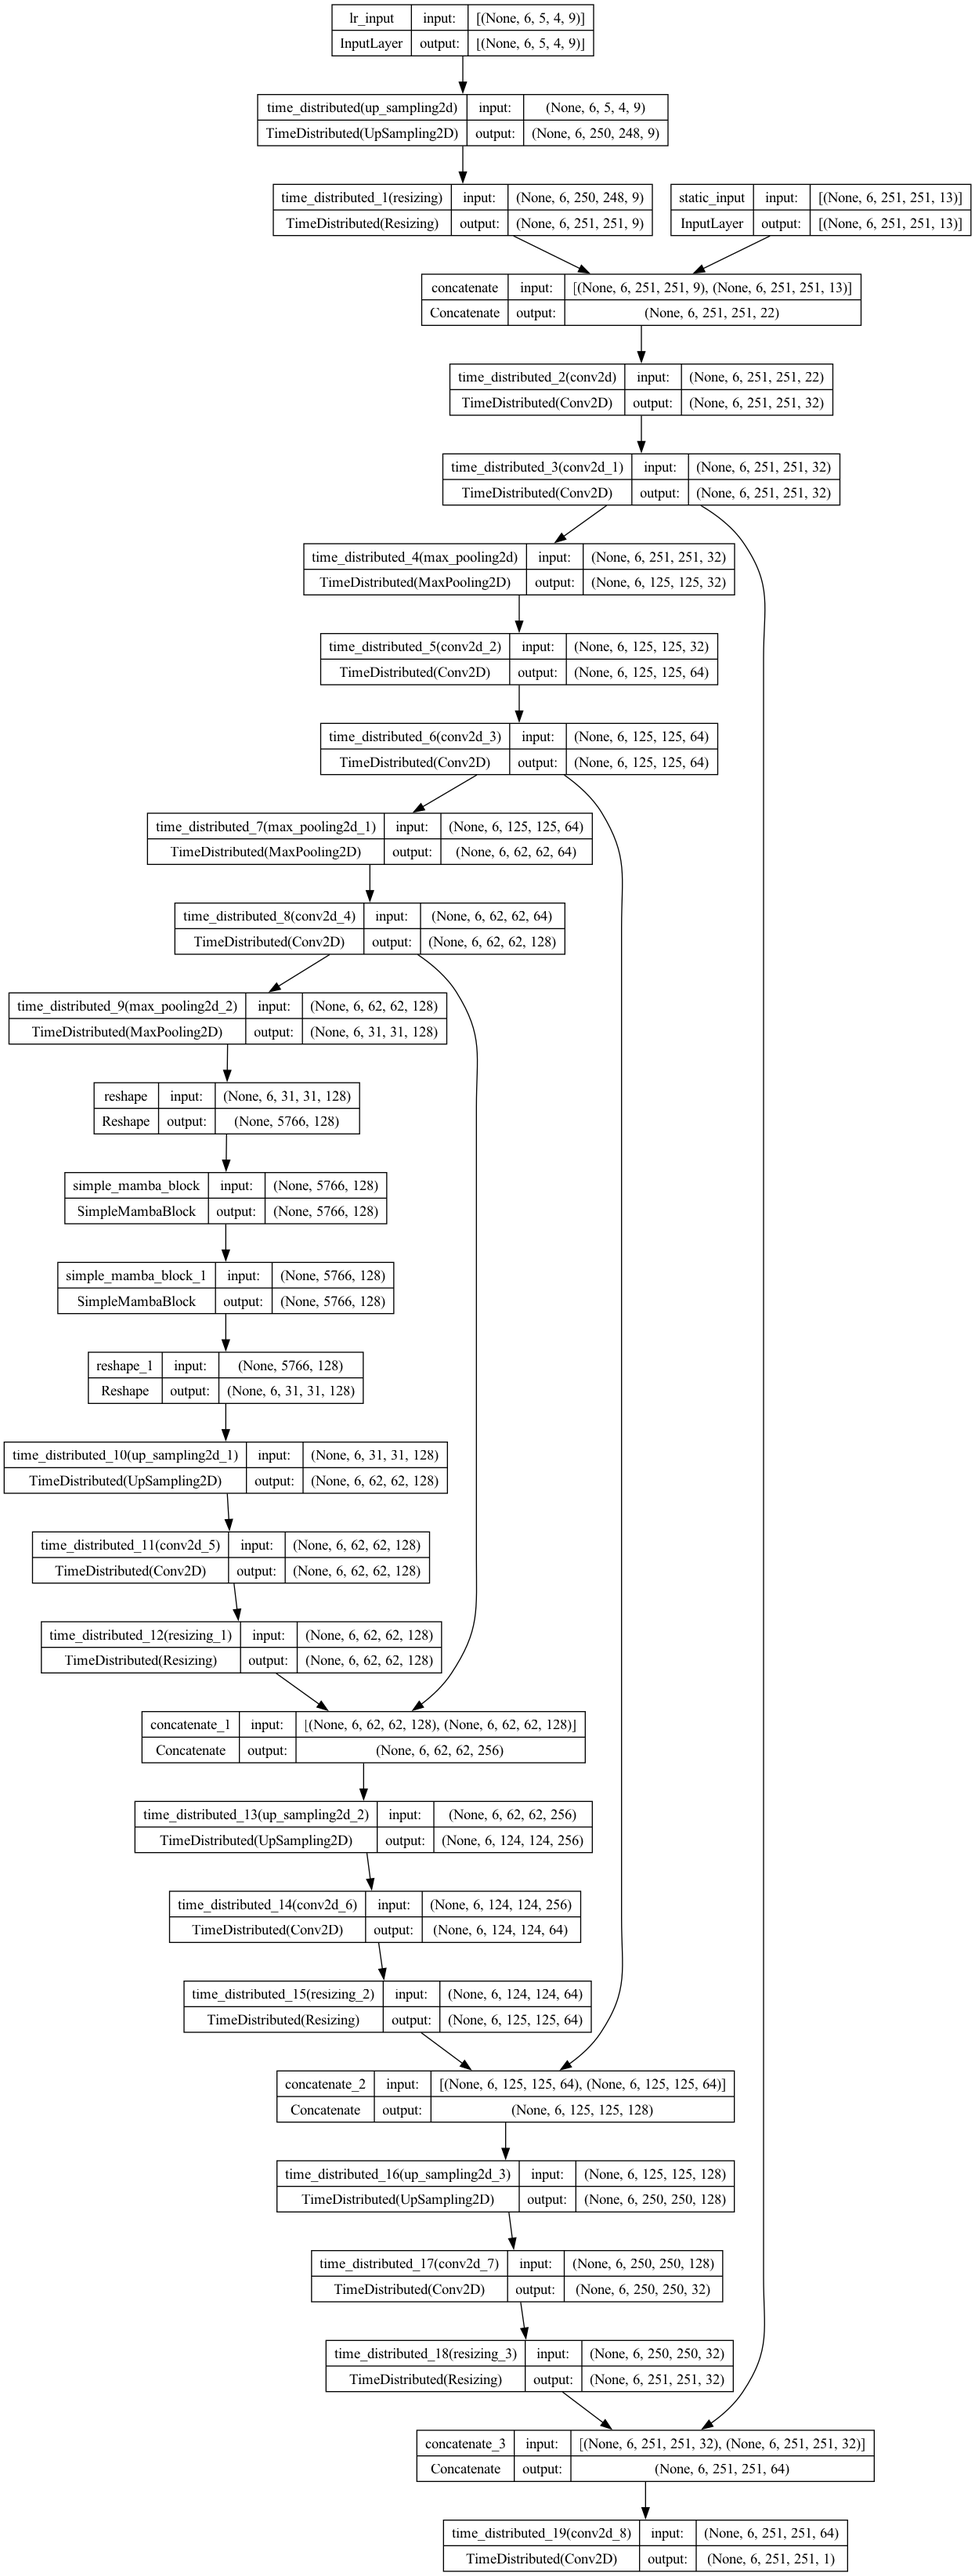
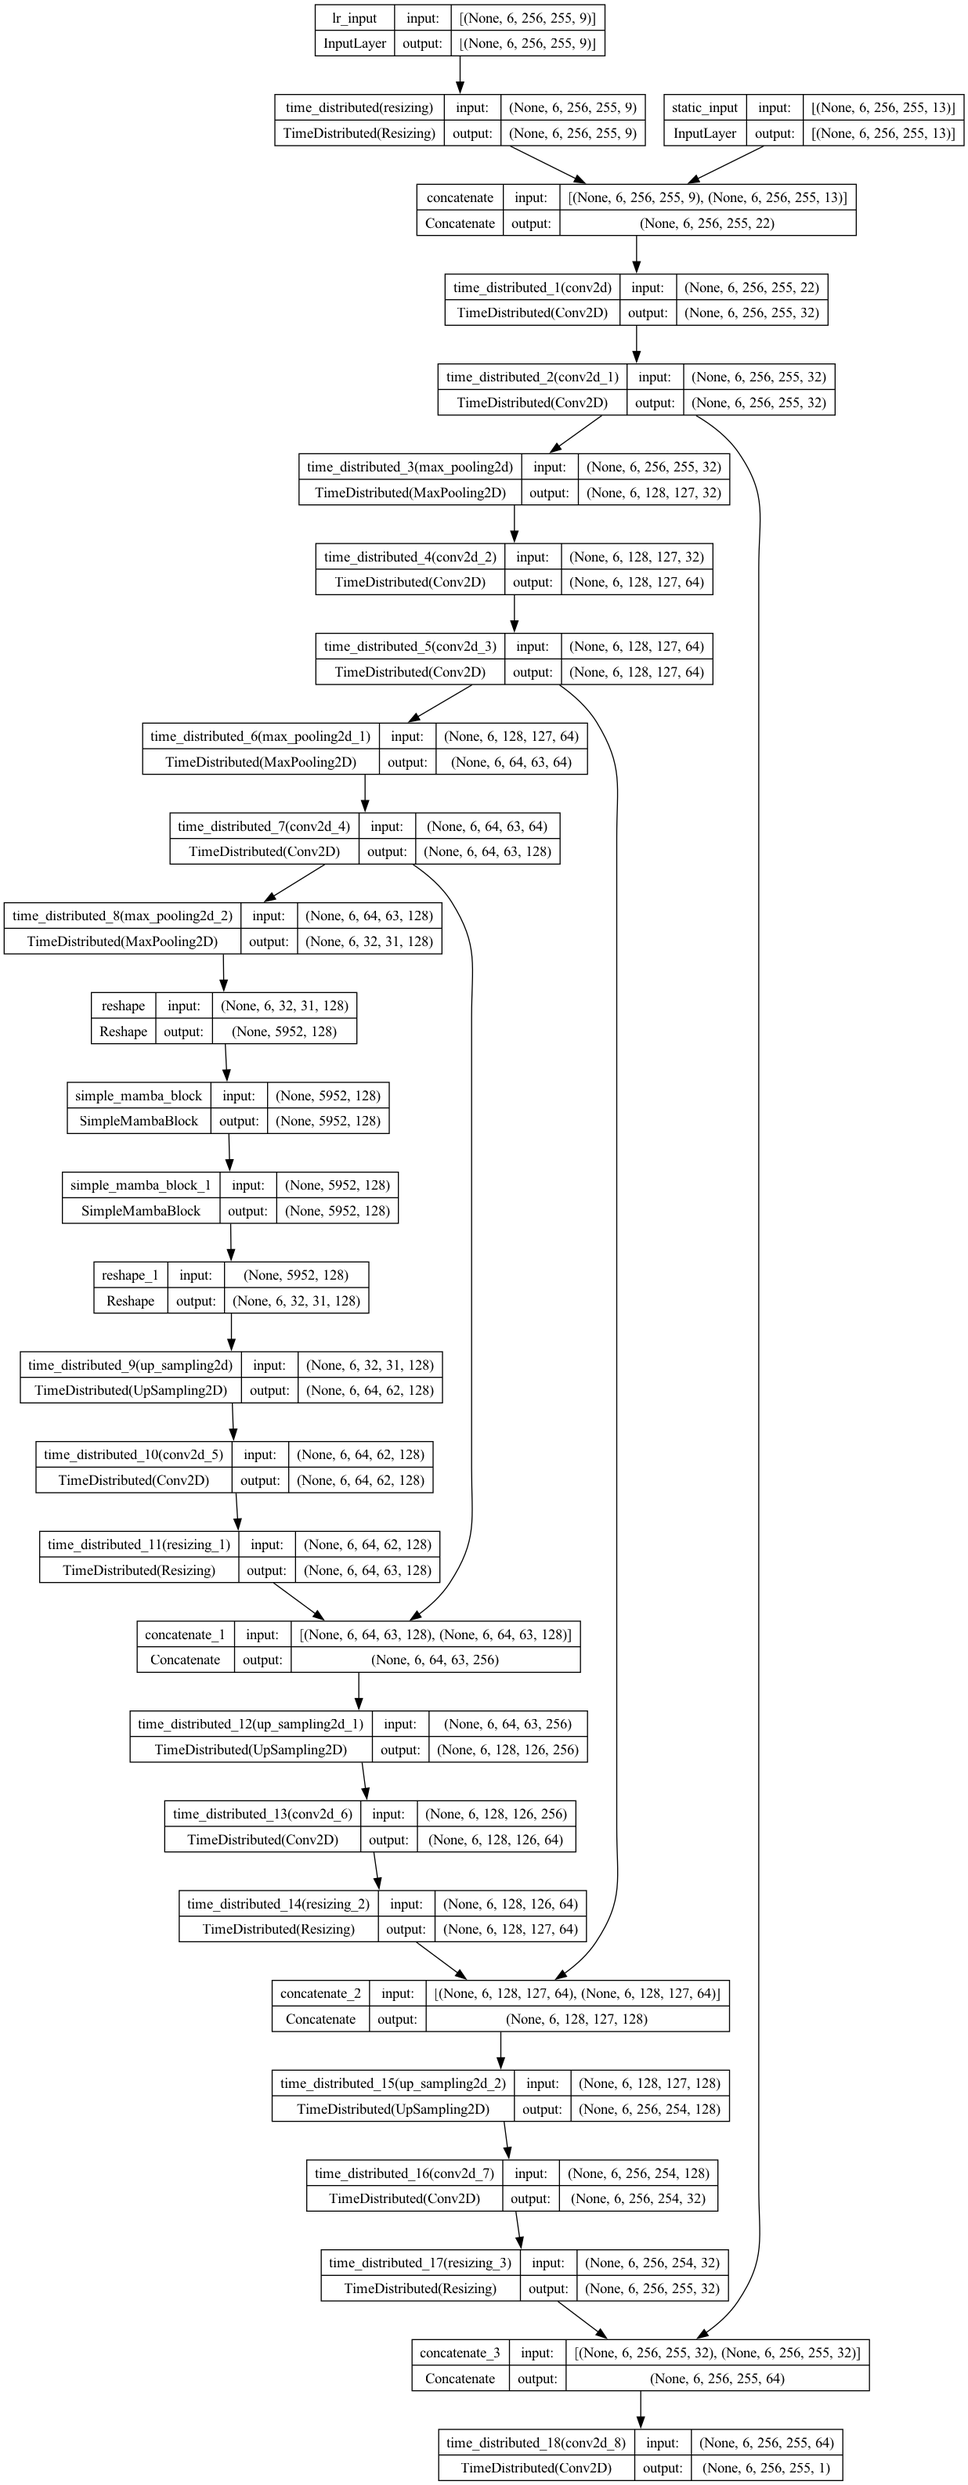
feat: Implement fast local run script with configurable max steps per epoch and shuffle buffer size for quicker development.

Changed region(s): [[0.0, 0.0, 1.0, 1.0]]

diff --git a/src/data_loader.py b/src/data_loader.py
@@ -749,9 +749,10 @@ class BigDataPipeline:
         spec_st = tf.TensorSpec(shape=(self.cfg.SEQ_LEN, st_h, st_w, self.cfg.STATIC_CHANNELS), dtype=tf.float32)
         spec_hr = tf.TensorSpec(shape=(self.cfg.SEQ_LEN, st_h, st_w, 1), dtype=tf.float32)
 
+        shuffle_buf = getattr(self.cfg, "SHUFFLE_BUFFER_SIZE", 500)
         train_ds = tf.data.Dataset.from_generator(
             lambda: generator(train_start, train_end, max_start_train), output_signature=((spec_lr, spec_st), spec_hr)
-        ).shuffle(500).batch(self.cfg.BATCH_SIZE, drop_remainder=True).prefetch(tf.data.AUTOTUNE)
+        ).shuffle(shuffle_buf).batch(self.cfg.BATCH_SIZE, drop_remainder=True).prefetch(tf.data.AUTOTUNE)
         
         val_ds = tf.data.Dataset.from_generator(
             lambda: generator(val_start, val_end, max_start_val), output_signature=((spec_lr, spec_st), spec_hr)

diff --git a/config/config.py b/config/config.py
@@ -68,6 +68,9 @@ class Config:
     LEARNING_RATE = 1e-4
     SEQ_LEN = 6 
     SPLIT_FRACTION = 0.8 
+    # Limitar pasos por época para runs locales rápidos (None = usar todo)
+    MAX_STEPS_PER_EPOCH = 200
+    SHUFFLE_BUFFER_SIZE = 200
 
     # ---------------------------------------------------------
     # 4. DIMENSIONES

diff --git a/config/presets/m4.py b/config/presets/m4.py
@@ -6,6 +6,7 @@ Copiar estos valores a config/config.py según necesidad.
 PRESET = {
     "BATCH_SIZE": 2,
     "SEQ_LEN": 6,
+    "MAX_STEPS_PER_EPOCH": 200,
     "TEMPORAL_STRIDE": 2,
     "TEMPORAL_SAMPLER": "weighted",
     "TEMPORAL_WEIGHT_GAMMA": 1.0,
